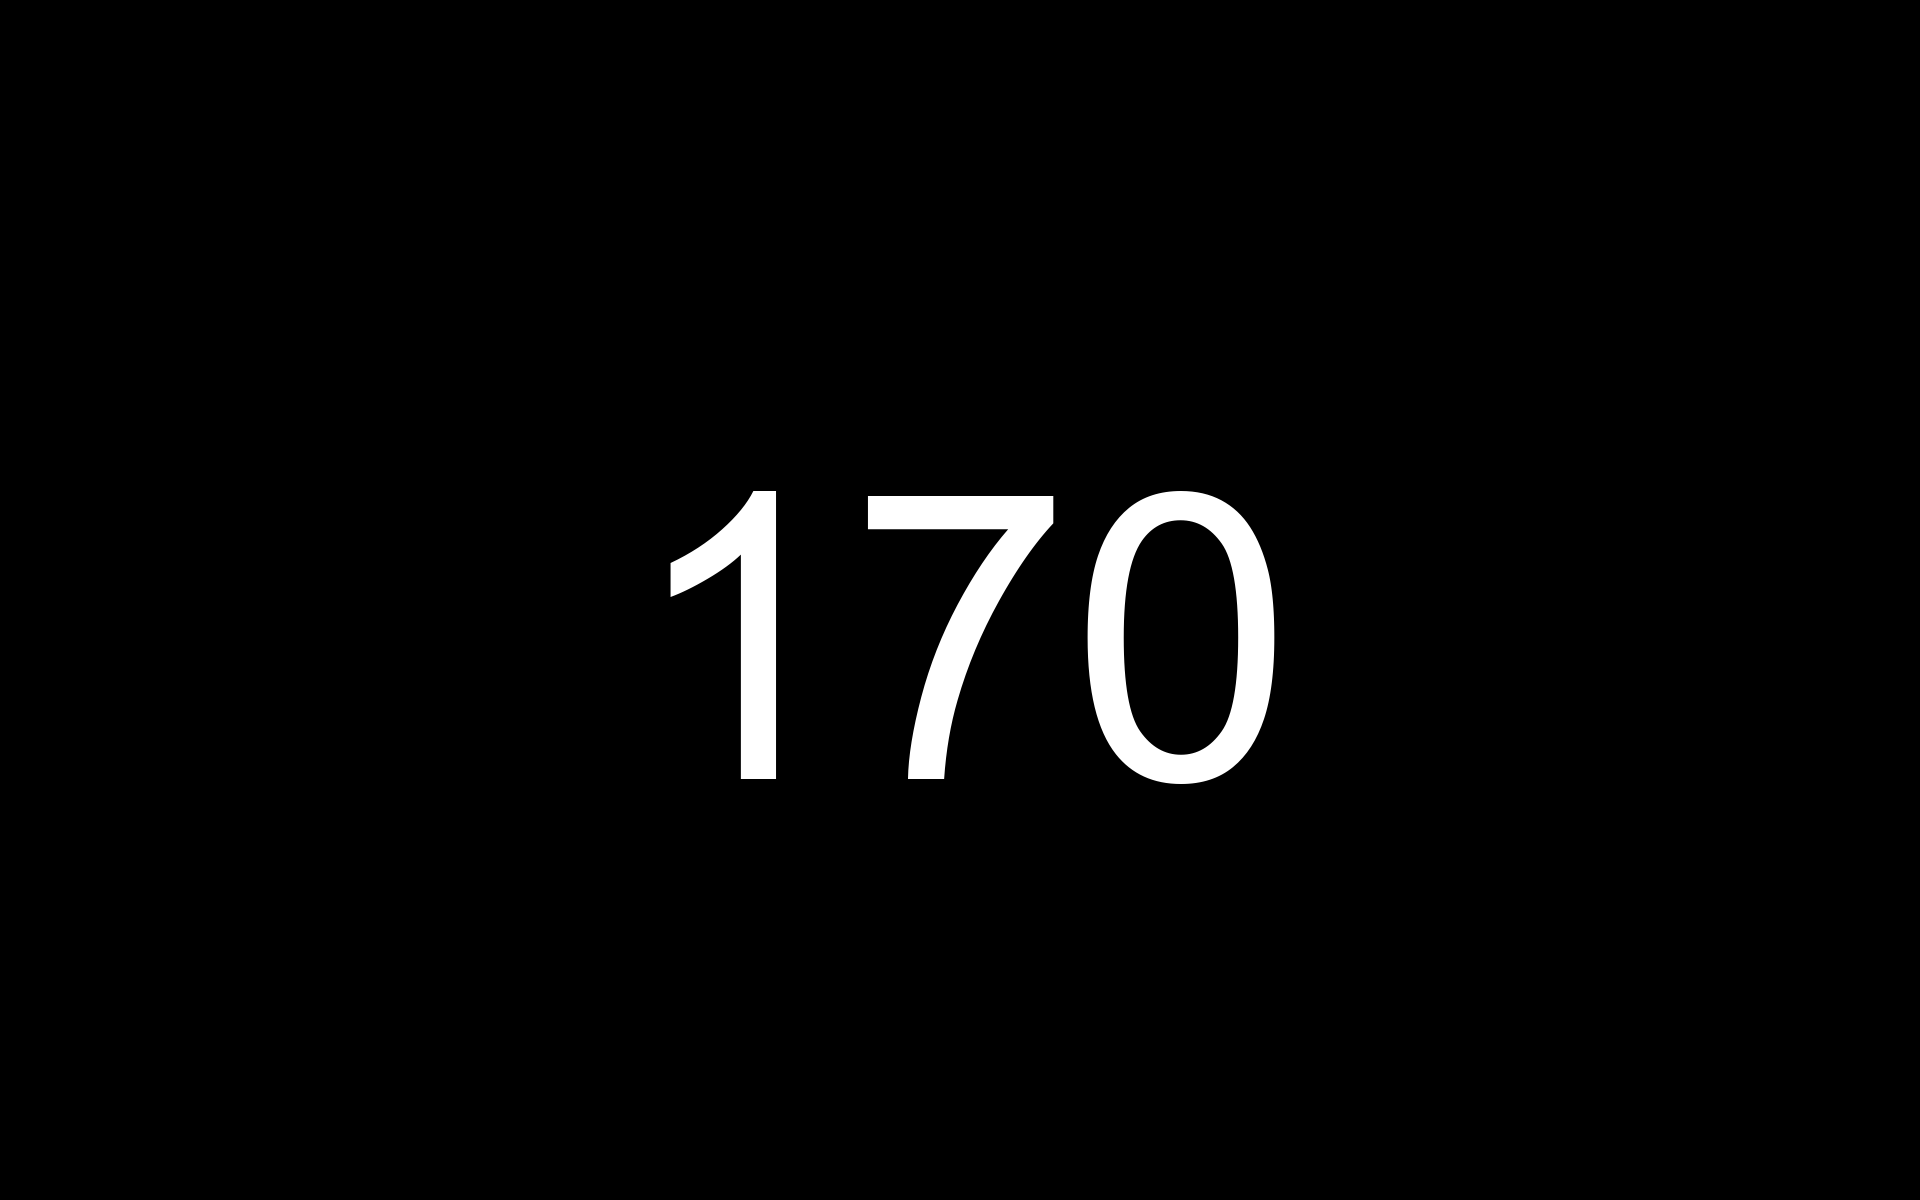
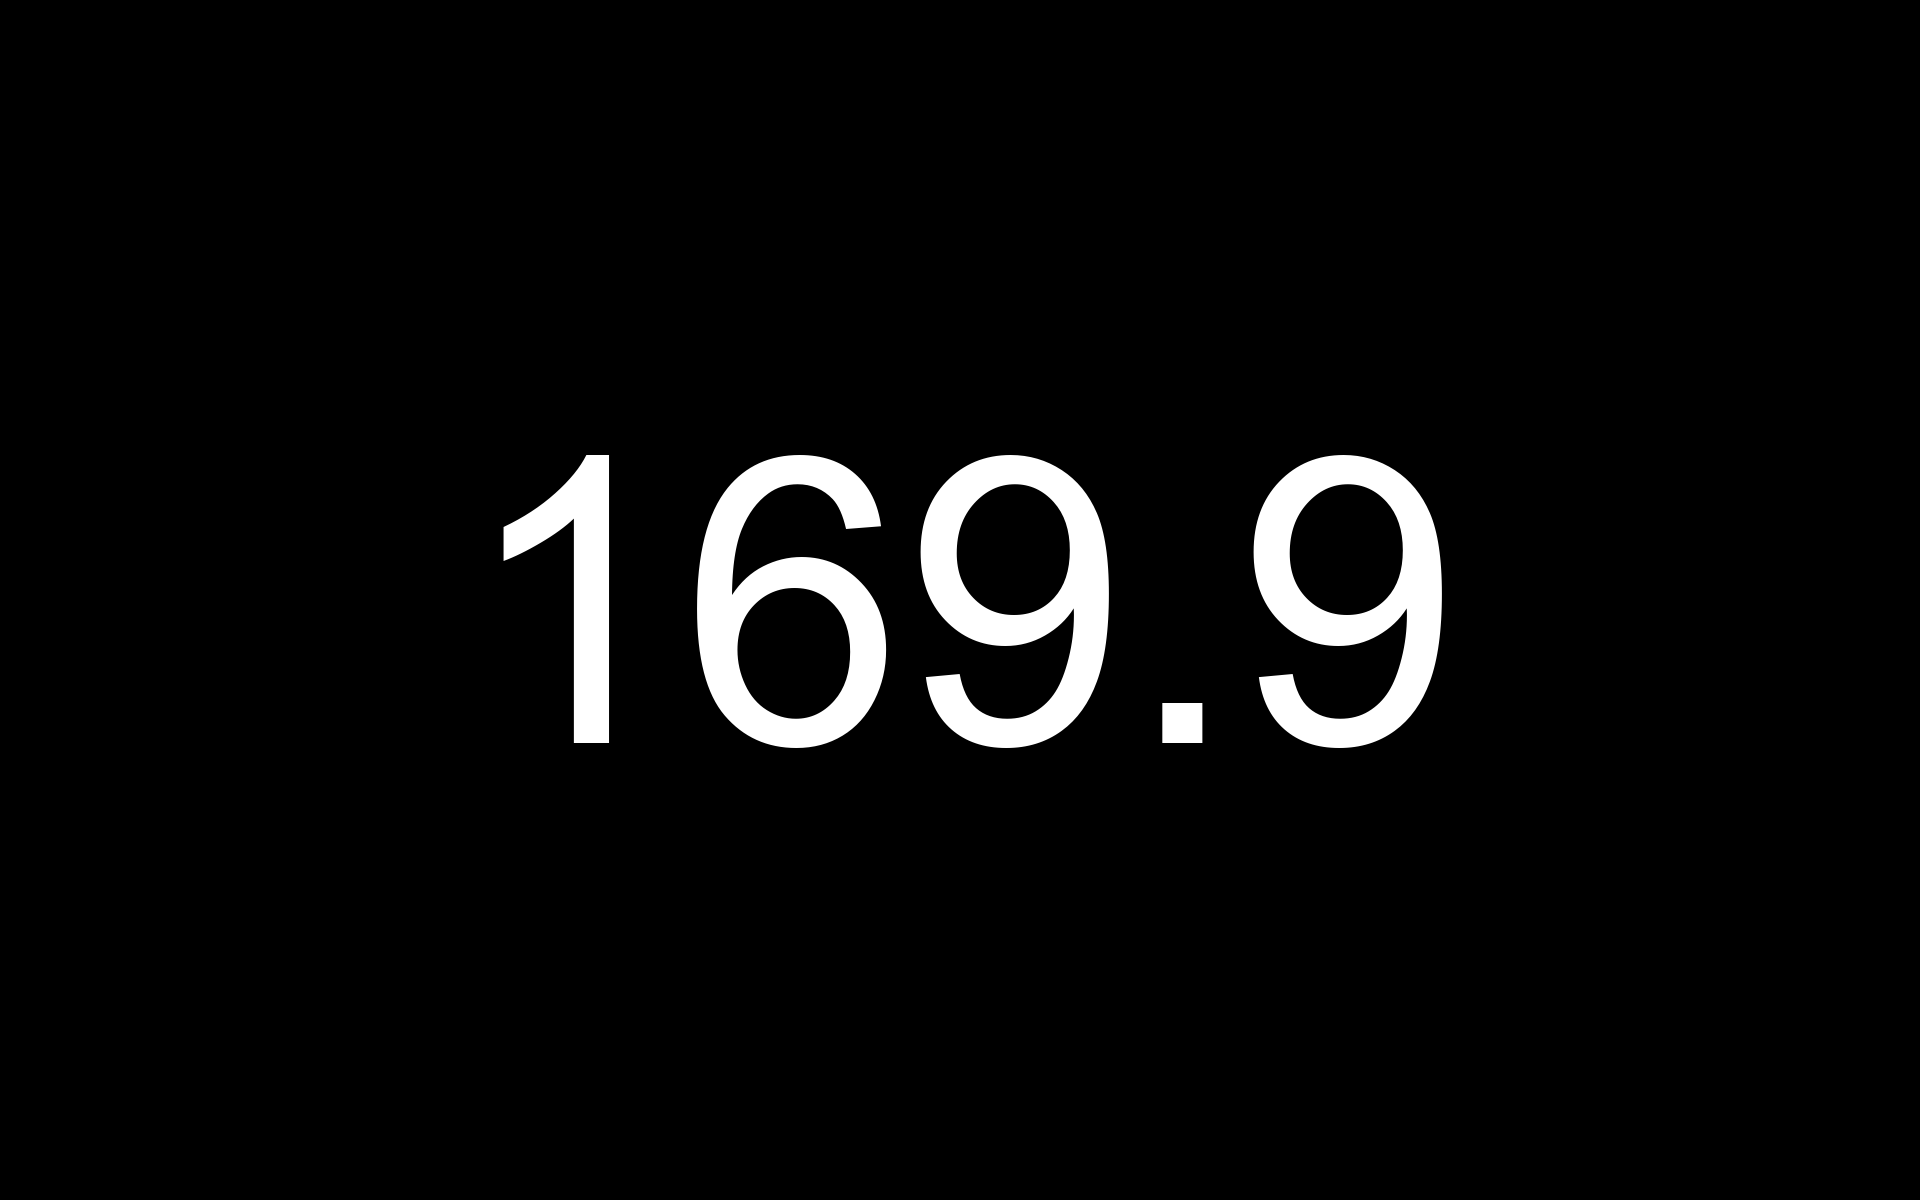
update

Changed region(s): [[0.25, 0.37, 0.75, 0.6783]]

diff --git a/weight-gen.py b/weight-gen.py
@@ -8,13 +8,12 @@ def generatePic(weight):
     d = ImageDraw.Draw(img)
     fnt = ImageFont.truetype("arial.ttf", 400)
     w, h = d.textsize(weight_str,font=fnt)
-    print(w,h)
-    d.text(((W-w)/2,(H-h)/2), weight_str, font=fnt, fill=(255,255,255))
+    d.text(((W-w)/2,380), weight_str, font=fnt, fill=(255,255,255))
     
-    img.save('D:/weight-pic-generator/weight_pic.png')
+    img.save('D:/weight_pic.png')
 
 def setWallpaper():
-    ctypes.windll.user32.SystemParametersInfoW(20, 0, 'D:/weight-pic-generator/weight_pic.png', 0)  # set wallpaper
+    ctypes.windll.user32.SystemParametersInfoW(20, 0, 'D:/weight_pic.png', 0)  # set wallpaper
 
 input_weight = input("Input your weight:")
 generatePic(input_weight)
